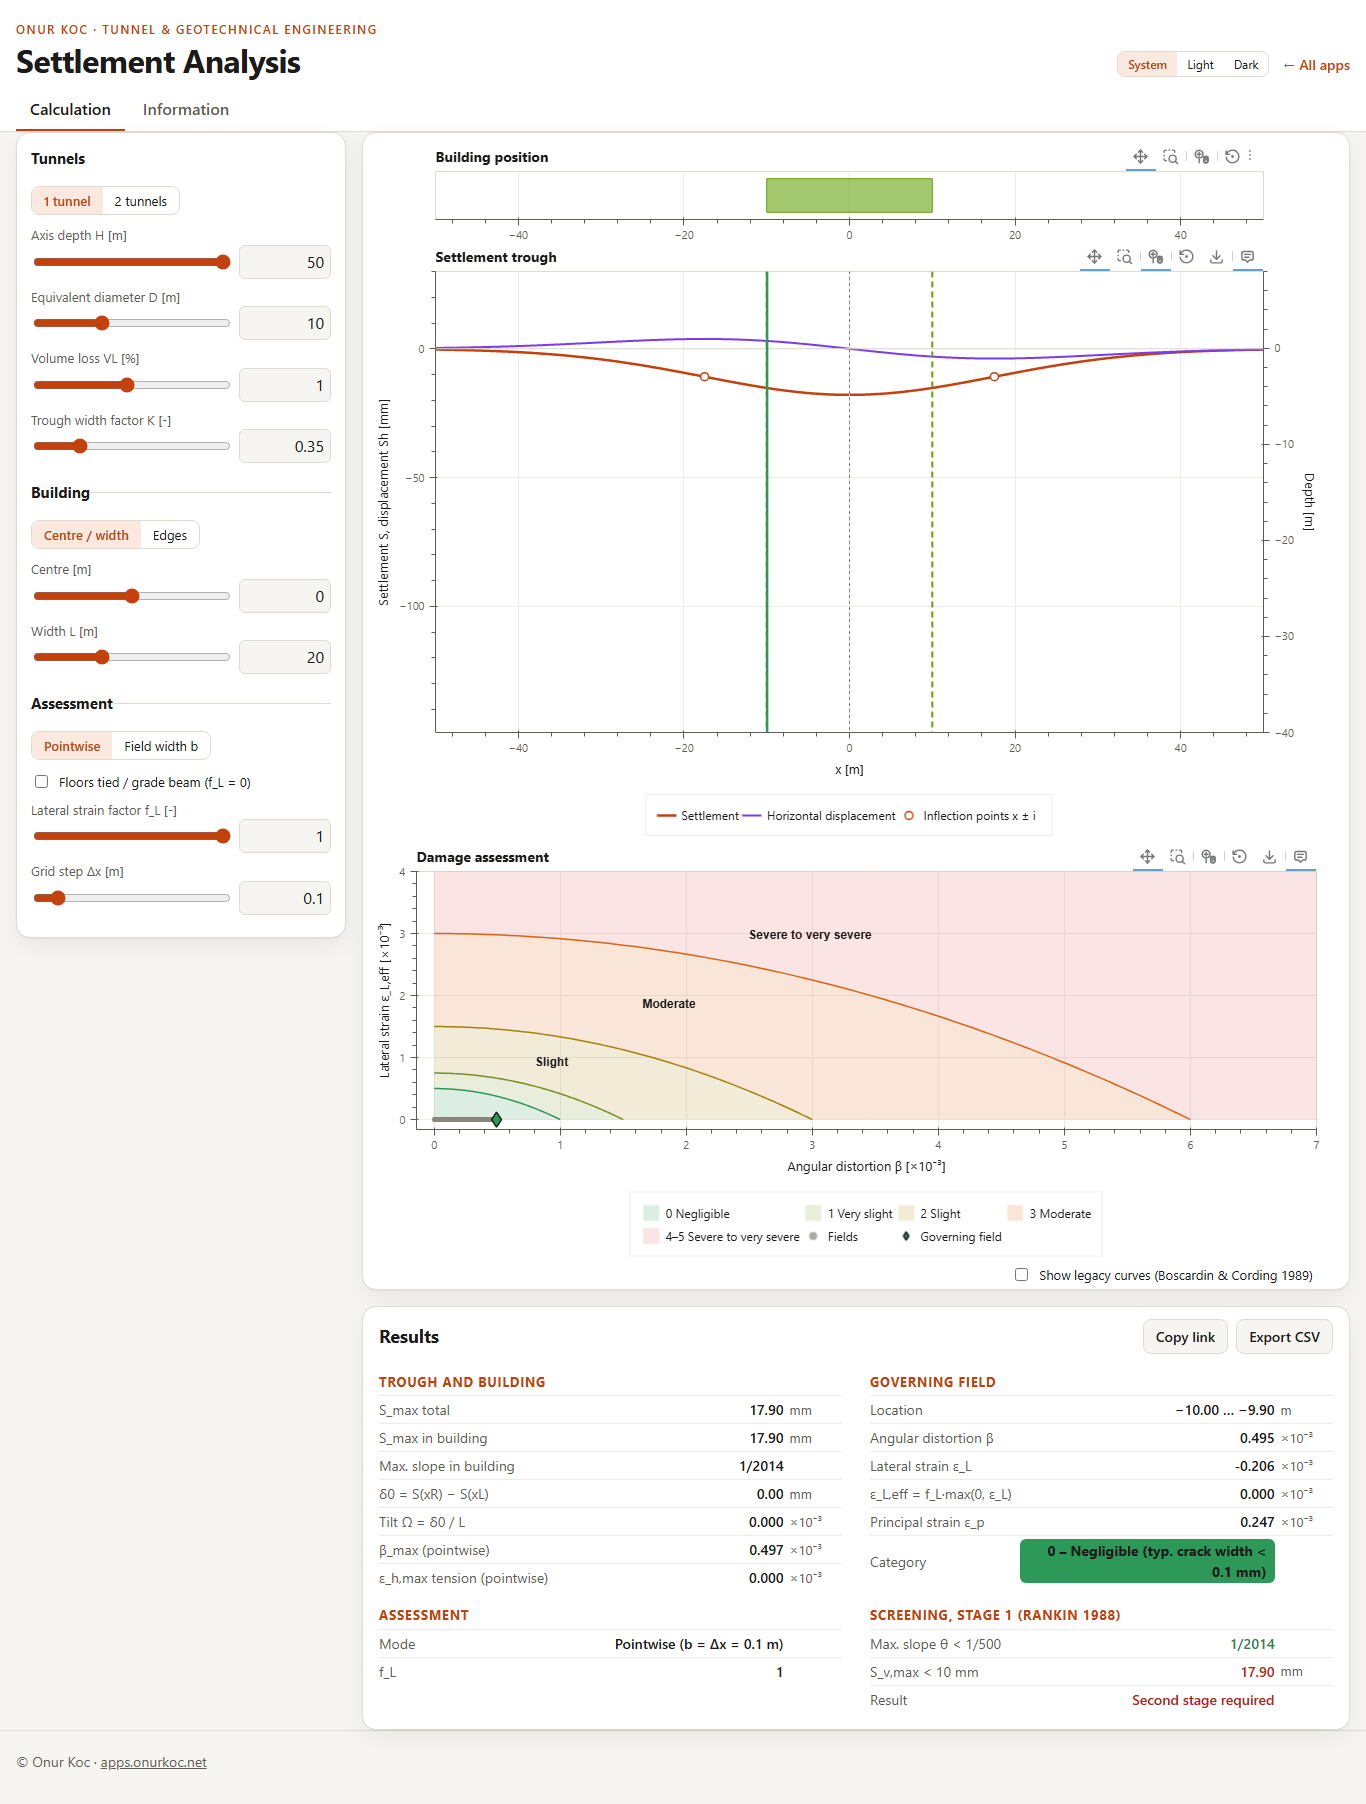
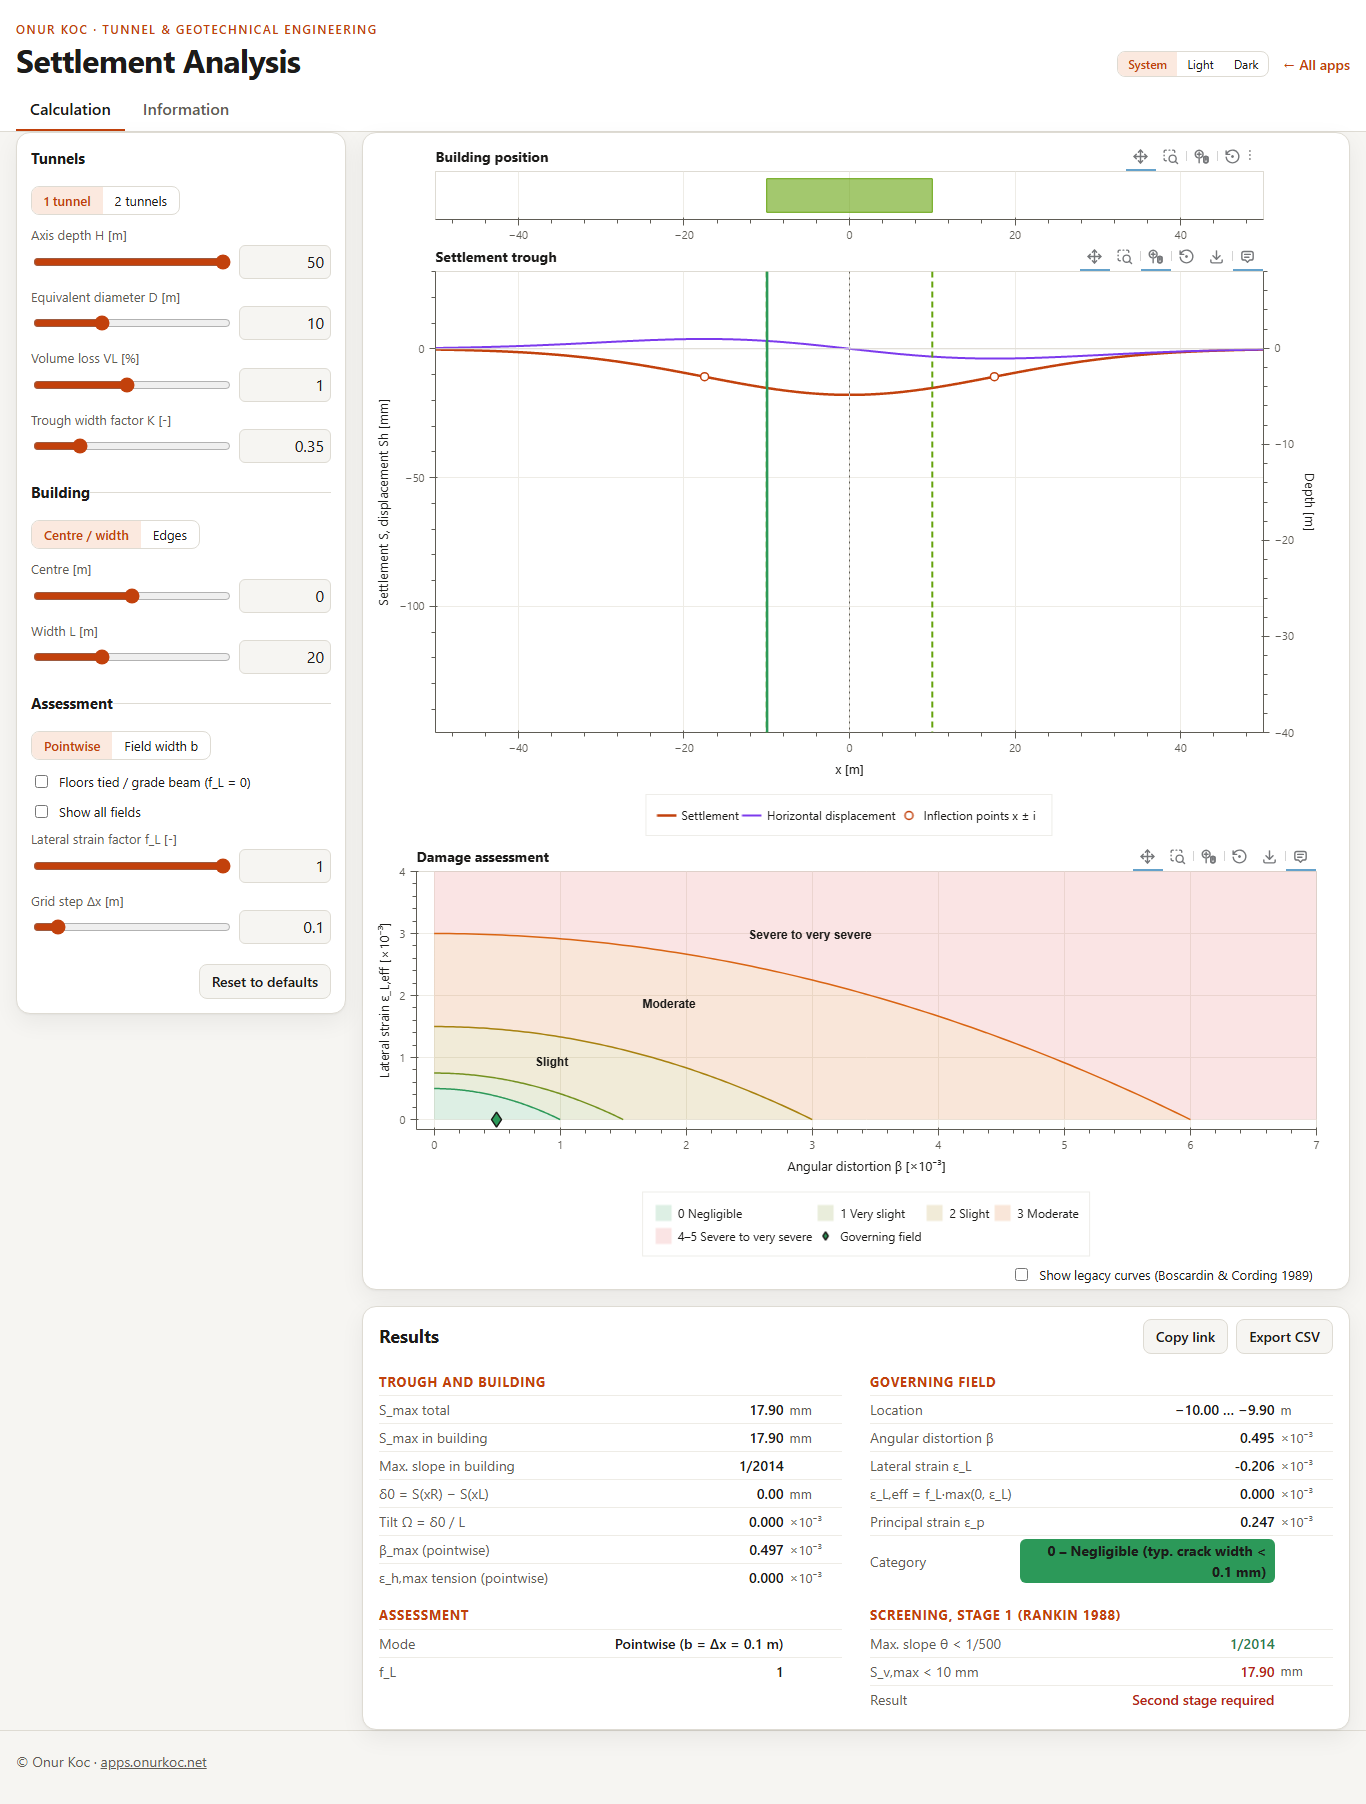
Damage plot: field points on request, reset to defaults
- Points of all fields hidden by default; as in the legacy app only
  the governing field is shown. New checkbox "Show all fields" in
  the section Assessment (state allFields, hash fld=1, default off);
  hover on the field points with location, beta, eps_L,eff, eps_p.
- Button "Reset to defaults" below the inputs: all inputs back to the
  default state (colour scheme kept).
- Tests: hash default and round trip; browser check for the checkbox
  and the reset button. Screenshots updated, new desktop_all_fields.

diff --git a/app/plots/damage.js b/app/plots/damage.js
@@ -114,20 +114,23 @@ export function createDamagePlot(B, th) {
     const legacy = legacyCurves().map((c) => p.line(c.beta.map((v) => v * 1000), c.epsL.map((v) => v * 1000),
                                                      { line_width: 1.5, line_dash: [6, 4], visible: false }));
 
-    const fields = new B.ColumnDataSource({ data: { x: [], y: [] } });
+    const fields = new B.ColumnDataSource({ data: { x: [], y: [], loc: [], epsP: [] } });
     const gov = new B.ColumnDataSource({
         data: { x: [], y: [], loc: [], beta: [], epsL: [], epsLEff: [], epsP: [], cat: [], color: [] },
     });
+    // points of all fields: hidden by default, as in the earlier app only
+    // one point per building (the governing field)
     const rFields = p.scatter({ x: { field: 'x' }, y: { field: 'y' }, source: fields, size: 5, marker: 'circle',
-                                fill_alpha: 0.7, line_alpha: 0 });
+                                fill_alpha: 0.7, line_alpha: 0, visible: false });
     const rGov = p.scatter({ x: { field: 'x' }, y: { field: 'y' }, source: gov, size: 15, marker: 'diamond',
                              fill_color: { field: 'color' }, line_width: 1.5 });
 
+    const fieldsItem = new B.LegendItem({ label: 'Fields', renderers: [rFields], visible: false });
     const legacyItem = new B.LegendItem({ label: 'Boscardin & Cording (1989)', renderers: [legacy[0]], visible: false });
     const legend = new B.Legend({
         items: [
             ...cats.map((c, k) => new B.LegendItem({ label: `${c.label} ${c.name}`, renderers: [areas[k]] })),
-            new B.LegendItem({ label: 'Fields', renderers: [rFields] }),
+            fieldsItem,
             new B.LegendItem({ label: 'Governing field', renderers: [rGov] }),
             legacyItem,
         ],
@@ -146,6 +149,16 @@ export function createDamagePlot(B, th) {
             ['ε_L,eff', '@epsLEff{0.000} ×10⁻³'],
             ['ε_p', '@epsP{0.000} ×10⁻³'],
             ['Category', '@cat'],
+        ],
+    }));
+    // only drawn (and inspected) while the points are visible
+    p.add_tools(new B.HoverTool({
+        renderers: [rFields],
+        tooltips: [
+            ['Field', '@loc m'],
+            ['β', '@x{0.000} ×10⁻³'],
+            ['ε_L,eff', '@y{0.000} ×10⁻³'],
+            ['ε_p', '@epsP{0.000} ×10⁻³'],
         ],
     }));
 
@@ -172,7 +185,10 @@ export function createDamagePlot(B, th) {
         const g = r.building.governing;
         const c = r.building.category;
         level = c.level;
-        fields.data = { x: f.beta.map((v) => v * 1000), y: f.epsLEff.map((v) => v * 1000) };
+        fields.data = {
+            x: f.beta.map((v) => v * 1000), y: f.epsLEff.map((v) => v * 1000),
+            loc: f.xa.map((a, k) => formatRange(a, f.xb[k])), epsP: f.epsP.map((v) => v * 1000),
+        };
         gov.data = {
             x: [g.beta * 1000], y: [g.epsLEff * 1000],
             loc: [formatRange(g.xa, g.xb)],
@@ -191,6 +207,12 @@ export function createDamagePlot(B, th) {
         legacyItem.visible = show;
     }
 
+    /** @param {boolean} show  points of all fields and their legend entry */
+    function showAllFields(show) {
+        rFields.visible = show;
+        fieldsItem.visible = show;
+    }
+
     /**
      * Legend in one column on a narrow screen, four otherwise.
      * @param {boolean} narrow
@@ -199,5 +221,5 @@ export function createDamagePlot(B, th) {
         legend.ncols = narrow ? 1 : 4;
     }
 
-    return { plot: p, update, setTheme, showLegacy, setNarrow };
+    return { plot: p, update, setTheme, showLegacy, showAllFields, setNarrow, fields: rFields };
 }

diff --git a/app/ui/inputs.js b/app/ui/inputs.js
@@ -19,6 +19,8 @@ import {
  * @property {(mode: 'centre' | 'edges') => void} onBuildingMode
  * @property {(mode: 'pointwise' | 'width') => void} onFieldMode
  * @property {(tied: boolean) => void} onTied
+ * @property {(show: boolean) => void} onAllFields
+ * @property {() => void} onReset  all inputs back to the defaults
  */
 
 /**
@@ -109,6 +111,10 @@ export function renderInputs(container, on) {
                                (v) => on.onFieldMode(v === 'width' ? 'width' : 'pointwise'));
     const tied = /** @type {HTMLInputElement} */ (h('input', { type: 'checkbox', id: 'in-tied' }));
     tied.addEventListener('change', () => on.onTied(tied.checked));
+    const allFields = /** @type {HTMLInputElement} */ (h('input', { type: 'checkbox', id: 'in-all-fields' }));
+    allFields.addEventListener('change', () => on.onAllFields(allFields.checked));
+    const reset = h('button', { type: 'button', id: 'reset-defaults' }, ['Reset to defaults']);
+    reset.addEventListener('click', () => on.onReset());
 
     container.append(
         h('fieldset', {}, [h('legend', {}, ['Tunnels']), countSeg, spacingRow, ...tunnelBoxes]),
@@ -119,8 +125,10 @@ export function renderInputs(container, on) {
         h('fieldset', {}, [
             h('legend', {}, ['Assessment']), fieldSeg, field(FIELD_WIDTH_FIELD),
             h('label', { class: 'check', for: 'in-tied' }, [tied, ' Floors tied / grade beam (f_L = 0)']),
+            h('label', { class: 'check', for: 'in-all-fields' }, [allFields, ' Show all fields']),
             field(FL_FIELD), field(DX_FIELD),
         ]),
+        h('div', { class: 'actions form-actions' }, [reset]),
     );
 
     /**
@@ -143,6 +151,7 @@ export function renderInputs(container, on) {
         setSeg(buildingSeg, s.buildingMode);
         setSeg(fieldSeg, s.fieldMode);
         tied.checked = s.floorsTied;
+        allFields.checked = s.allFields;
         tunnelBoxes[1].hidden = s.count !== 2;
         /** @type {HTMLElement} */ (tunnelBoxes[0].firstChild).hidden = s.count !== 2;
         const active = new Set(activeFields(s).map((f) => f.path));

diff --git a/app/app.js b/app/app.js
@@ -5,7 +5,7 @@ results. BokehJS is loaded as a classic script (window.Bokeh) by
 index.html and passed to the plot modules.
 */
 import {
-    decodeHash, encodeHash, validate, cloneState, setPath, switchTunnels, switchBuildingMode,
+    decodeHash, encodeHash, validate, cloneState, setPath, switchTunnels, switchBuildingMode, defaultState,
 } from './state.js';
 import { compute, summaryRows } from './model.js';
 import { buildCsv } from './csv.js';
@@ -49,6 +49,8 @@ async function main() {
         onBuildingMode(mode) { replace(switchBuildingMode(state, mode)); },
         onFieldMode(mode) { change((s) => { s.fieldMode = mode; }); },
         onTied(tied) { change((s) => { s.floorsTied = tied; }); },
+        onAllFields(show) { change((s) => { s.allFields = show; }); },
+        onReset() { replace(defaultState()); },
     });
 
     const plots = await createPlots(B, {
@@ -83,6 +85,7 @@ async function main() {
         inputs.sync(state, errors);
         /** @type {HTMLInputElement} */ ($('legacy')).checked = state.legacy;
         plots.showLegacy(state.legacy);
+        plots.showAllFields(state.allFields);
         const invalid = Object.keys(errors).length > 0;
         $('msg').hidden = !invalid;
         document.body.classList.toggle('stale', invalid);

diff --git a/app/state.js b/app/state.js
@@ -38,6 +38,8 @@ Only the building moves.
  * @property {number} fL  factor on the lateral strain [-]
  * @property {number} dx  grid step [m]
  * @property {boolean} legacy  show the legacy curves
+ * @property {boolean} allFields  show the points of all fields in the damage
+ *     plot (default: only the governing field, as in the earlier app)
  */
 
 /**
@@ -83,6 +85,7 @@ export function defaultState() {
         fL: 1,
         dx: 0.1,
         legacy: false,
+        allFields: false,
     };
 }
 
@@ -378,6 +381,7 @@ export function encodeHash(s) {
     parts.push(s.floorsTied ? 'tied=1' : `fl=${num(s.fL)}`);
     parts.push(`dx=${num(s.dx)}`);
     if (s.legacy) parts.push('leg=1');
+    if (s.allFields) parts.push('fld=1');
     return parts.join('&');
 }
 
@@ -446,5 +450,6 @@ export function decodeHash(hash) {
     }
     if (q.get('dx') !== null) s.dx = parseNum(/** @type {string} */ (q.get('dx')));
     s.legacy = q.get('leg') === '1';
+    s.allFields = q.get('fld') === '1';
     return s;
 }

diff --git a/tests/state.test.js b/tests/state.test.js
@@ -251,3 +251,17 @@ test('slider ranges as in the earlier app (spacing c: 5 ... 50 m)', () => {
     s.center = -40;
     assert.deepEqual(validate(s), {});
 });
+
+test('"Show all fields": default off, in the hash as fld=1, missing parameter = off', () => {
+    const s = defaultState();
+    assert.equal(s.allFields, false);
+    assert.ok(!encodeHash(s).includes('fld'));
+    assert.equal(decodeHash('#' + encodeHash(s)).allFields, false);
+    s.allFields = true;
+    assert.ok(encodeHash(s).endsWith('&fld=1'));
+    assert.equal(decodeHash('#' + encodeHash(s)).allFields, true);
+    s.allFields = false;
+    assert.equal(decodeHash('#' + encodeHash(s)).allFields, false);
+    assert.equal(decodeHash('#n=1&t1=30,10,1,0.35&bm=c&b=0,20&fw=5&fl=1&dx=0.1').allFields, false);
+    assert.equal(decodeHash('').allFields, false);
+});

diff --git a/app/style.css b/app/style.css
@@ -178,6 +178,7 @@ body.stale .plots, body.stale .results { opacity: .45; }
 .results-head { display: flex; justify-content: space-between; align-items: center; gap: 12px; flex-wrap: wrap; }
 .results-head h2 { font-size: 18px; margin: 0; }
 .actions { display: flex; gap: 8px; }
+.form-actions { justify-content: flex-end; margin-top: 12px; }
 .actions button {
   border: 1px solid var(--line); background: var(--bg); border-radius: 8px; padding: 6px 12px;
   cursor: pointer; font-size: 14px; font-weight: 600;

diff --git a/app/plots/index.js b/app/plots/index.js
@@ -126,6 +126,7 @@ export async function createPlots(B, el) {
         setTheme,
         setNarrow,
         showLegacy: damage.showLegacy,
+        showAllFields: damage.showAllFields,
         /** views, ranges and the PNG export, for the headless checks */
         debug: { views, building, trough, damage, sharedX, pngBlob, alignFrames },
     };
